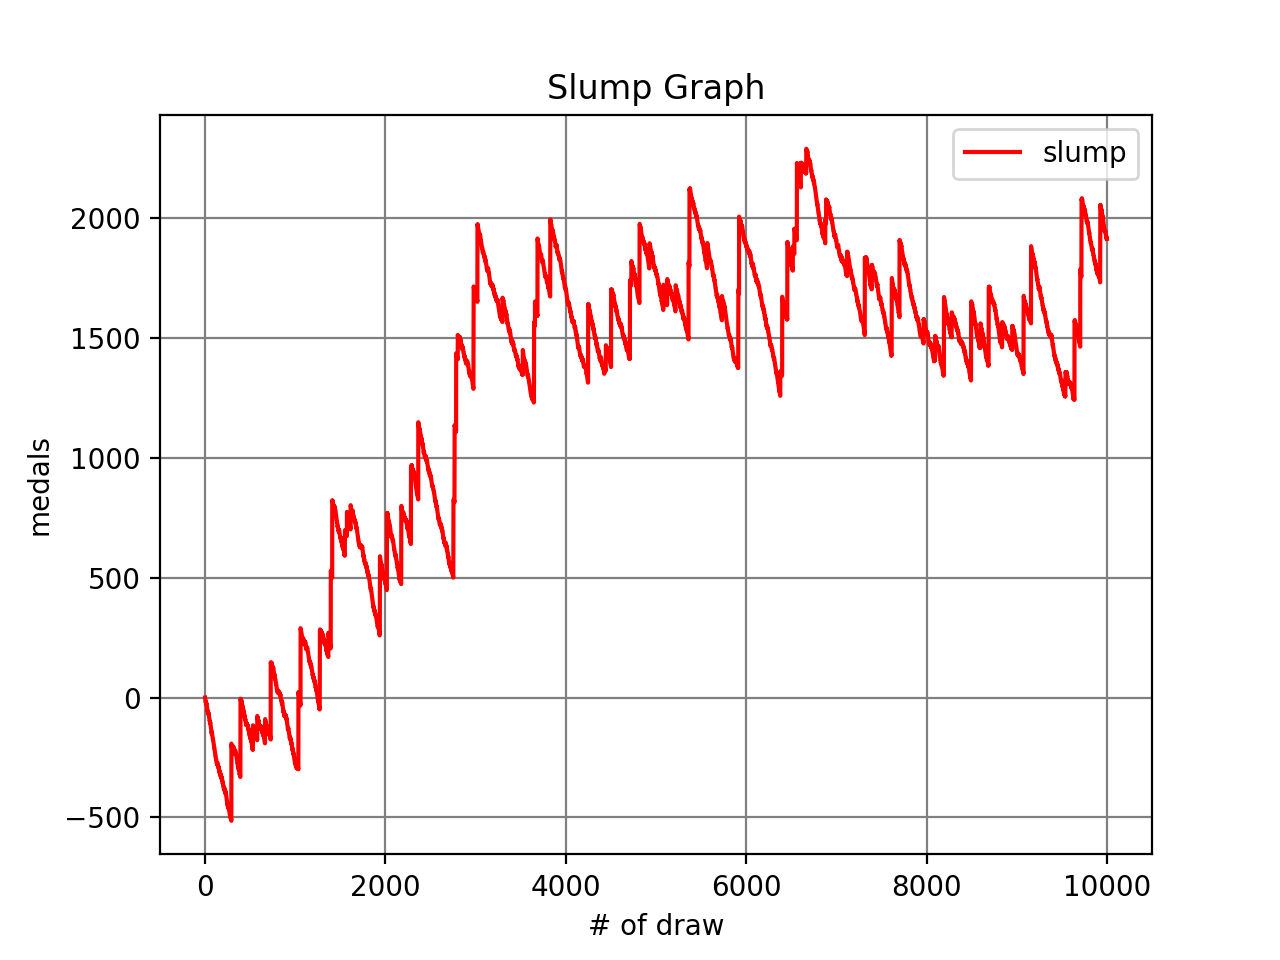
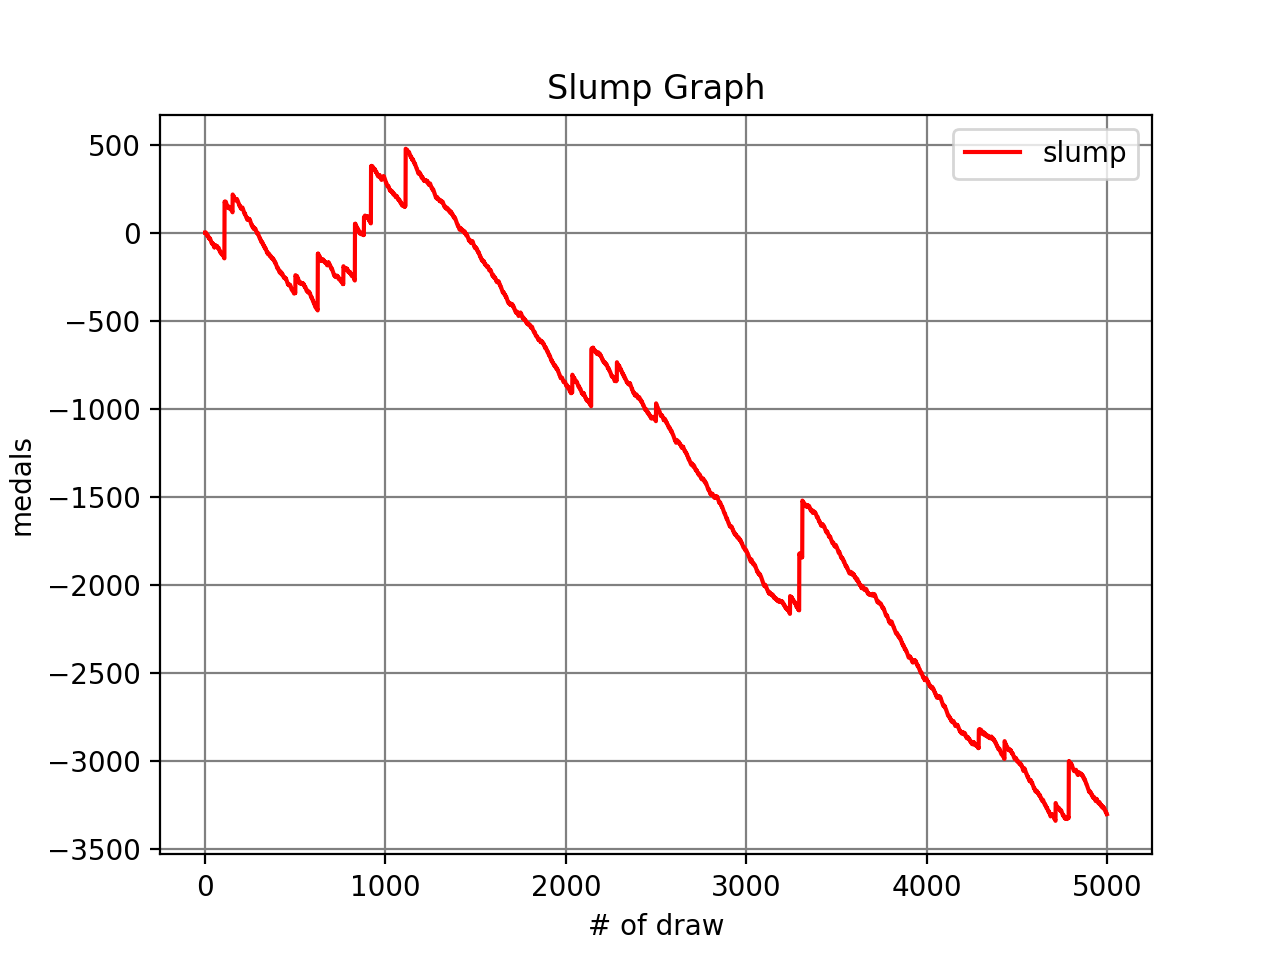
抽選を完全確率に変更

diff --git a/juggler.py b/juggler.py
@@ -7,54 +7,81 @@ import numpy as np
 import matplotlib.pyplot as plt
 
 class Juggler(object):
-    def __init__(self, name="ダミー", setting=6, big=268., reg=268., grape=6., cherry=33., replay=7., pierrot=1092., bell=1092.):
-        self.name = name #機種名
-        self.setting = setting #設定(1-6)
-        self.rotation = 0 #ハマり回転数
-        self.rotation_total = 0
-        self.medal = 0 #差枚数
-        self.log = [] #当たり履歴
-        self.slump = [] #スランプグラフ
-        self.counter = np.zeros(7) #役カウンタ[BIG, REG, ブドウ, チェリー, リプレイ, ベル, ピエロ]
+    def __init__(self, name="ダミー", setting=6, big_single=172, big_cherry=72, reg_single=172, reg_cherry=72, grape=10600, cherry_single=1840, replay=8978, bell=60, pierrot=60):
 
-        self.big = big #BIG確率(分母)
-        self.reg = reg #REG確率(分母)
-        self.grape = grape #ブドウ確率(分母)
-        self.cherry = cherry #チェリー確率(分母)
-        self.replay = replay #リプレイ確率(分母)
-        self.pierrot = pierrot #ピエロ確率(分母)
-        self.bell = bell #ベル確率(分母)
-        
-        self.weight_big = np.array([1.0-1./self.big, 1./self.big])
-        self.weight_reg = np.array([1.0-1./self.reg, 1./self.reg])
-        self.weight_grape = np.array([1.0-1./self.grape, 1./self.grape])
-        self.weight_cherry = np.array([1.0-1./self.cherry, 1./self.cherry])
-        self.weight_replay = np.array([1.0-1./self.replay, 1./self.replay])
-        self.weight_pierrot = np.array([1.0-1./self.pierrot, 1./self.pierrot])
-        self.weight_bell = np.array([1.0-1./self.bell, 1./self.bell])
+        self.name = name            #機種名
+        self.setting = setting      #設定(1-6)
+        self.rotation = 0           #ハマり回転数
+        self.rotation_total = 0     #総回転数
+        self.medal = 0              #差枚数
+        self.log = []               #当たり履歴
+        self.slump = []             #スランプグラフ
+        self.counter = np.zeros(7)  #役カウンタ[BIG, REG, ブドウ, チェリー, リプレイ, ベル, ピエロ]
+        self.flag_big = False #BIGフラグ
+        self.flag_reg = False #REGフラグ
 
-        self.flag_big = False #当たりフラグ
-        self.flag_reg = False
+        self.big_single = big_single        #単独BIG確率(x/65536)
+        self.big_cherry = big_cherry        #チェリーBIG確率
+        self.reg_single = reg_single        #単独REG確率
+        self.reg_cherry = reg_cherry        #チェリーREG確率
+        self.grape = grape                  #ブドウ確率
+        self.cherry_single = cherry_single  #チェリーのみ確率
+        self.replay = replay                #リプレイ確率
+        self.pierrot = pierrot              #ピエロ確率
+        self.bell = bell                    #ベル確率
+
+        self.big_total = big_single+big_cherry                  #BIG確率
+        self.reg_total = reg_single+reg_cherry                  #REG確率
+        self.bonus_total = self.big_total+self.reg_total        #ボーナス合算
+        self.cherry_total = big_cherry+reg_cherry+cherry_single #チェリー合算
+
+        # 抽選テーブルを作成
+        self.th_big_single = big_single
+        self.th_big_cherry = self.th_big_single + big_cherry
+        self.th_reg_single = self.th_big_cherry + reg_single
+        self.th_reg_cherry = self.th_reg_single + reg_cherry
+        self.th_grape = self.th_reg_cherry + grape
+        self.th_cherry_single = self.th_grape + cherry_single
+        self.th_replay = self.th_cherry_single + replay
+        self.th_bell = self.th_replay + bell
+        self.th_pierrot = self.th_bell + pierrot
 
     #スペック表示
     def show_spec(self):
         print(self.name)
         print("設定:%d"%self.setting)
-        print("BIG確率:1/%g"%self.big)
-        print("REG確率:1/%g"%self.reg)
-        print("ボーナス合算:1/%g"%((self.reg*self.big)/(self.reg+self.big-1.)))
-        print("ブドウ確率:1/%g"%self.grape)
-        print("チェリー確率:1/%g"%self.cherry)
+        print("BIG確率:1/%g"%(65536./self.big_total))
+        print("REG確率:1/%g"%(65536./self.reg_total))
+        print("ボーナス合算:1/%g"%(65536./self.bonus_total))
+        print("ブドウ確率:1/%g"%(65536./self.grape))
+        print("チェリー確率:1/%g"%(65536./self.cherry_total))
+        print("リプレイ確率:1/%g"%(65536./self.replay))
+        print("ピエロ確率:1/%g"%(65536./self.pierrot))
+        print("ベル確率:1/%g"%(65536./self.bell))
 
     #現在の回転数, 当たり回数などを表示
     def show_status(self):
+        
+        if self.counter[0]==0:
+            p_big = "BIG確率:0/%d, "%self.rotation_total
+        else:
+            p_big = "BIG確率:1/%g, "%(float(self.rotation_total)/self.counter[0])
+        if self.counter[1]==0:
+            p_reg = "REG確率:0/%d, "%self.rotation_total
+        else:
+            p_reg = "REG確率:1/%g, "%(float(self.rotation_total)/self.counter[1])
+        if (self.counter[0]+self.counter[1])==0:
+            p_total = "ボーナス合算確率:0/%d"%self.rotation_total
+        else:
+            p_total = "ボーナス合算確率:1/%g"%(float(self.rotation_total)/(self.counter[0]+self.counter[1]))
         print("現在の回転数:%d, 差枚数:%d, 総回転数:%d, BIG:%d回, REG:%d回"%(self.rotation, self.medal, self.rotation_total, self.counter[0], self.counter[1]))
-        n_big = float(self.rotation_total)/(self.counter[0]+1e-07)
-        n_reg = float(self.rotation_total)/(self.counter[1]+1e-07)
-        n_both = float(self.rotation_total)/(self.counter[0]+self.counter[1]+1e-07)
-        print("BIG確率:1/%g, REG確率:1/%g, ボーナス合算:1/%g"%(n_big, n_reg, n_both))
+        print(p_big+p_reg+p_total)
+        #n_big = float(self.rotation_total)/(self.counter[0]+1e-07)
+        #n_reg = float(self.rotation_total)/(self.counter[1]+1e-07)
+        #n_both = float(self.rotation_total)/(self.counter[0]+self.counter[1]+1e-07)
+        #print("BIG確率:1/%g, REG確率:1/%g, ボーナス合算:1/%g"%(n_big, n_reg, n_both))
 
-    #小役カウンタを表示
+    #小役カウンタを表示(要修正)
     def show_counter(self):
         #print("ブドウ:%d, チェリー:%d, リプレイ:%d, ベル:%d, ピエロ:%d"%(self.counter[2], self.counter[3], self.counter[4], self.counter[5], self.counter[6]))
         n_koyaku = float(self.rotation_total)/(self.counter[2:]+1e-07)
@@ -78,12 +105,12 @@ class Juggler(object):
 
     #抽選
     def draw(self):
-        #MAXBET
+        #MAXBET時の処理
         self.medal -= 3
         self.rotation += 1
         self.rotation_total += 1
         #フラグが成立している場合は払い出し優先(生入りは考慮しない)
-        #それ以外はBIG>REG>ベル>ピエロ>チェリー>リプレイ>ブドウの順に当たり判定を行う
+        #それ以外は[単独BIG|チェリーBIG|単独REG|チェリーREG|ブドウ|チェリー(ボナなし)|リプレイ|ピエロ|ベル|ハズレ]のテーブルで抽選を行う
         if ((self.flag_big==True) or (self.flag_reg==True)):
             self.rotation = 0
             if self.flag_big==True:
@@ -97,67 +124,105 @@ class Juggler(object):
                 self.flag_reg = False
                 self.counter[1] += 1
         else:
-            if np.random.choice([False, True], p=self.weight_big)==True:
+            table = np.random.randint(65536)
+            if 0<=table<self.th_big_single:
+                # 単独BIG
                 self.flag_big = True
-            elif np.random.choice([False, True], p=self.weight_reg)==True:
-                self.flag_reg = True
-
-            if np.random.choice([False, True], p=self.weight_bell)==True:
-                result = "ベル"
-                self.medal += 14
-                self.counter[6] += 1
-            elif np.random.choice([False, True], p=self.weight_pierrot)==True:
-                result = "ピエロ"
-                self.medal += 10
-                self.counter[5] += 1
-            elif np.random.choice([False, True], p=self.weight_cherry)==True:
-                result = "チェリー"
+                result = "ハズレ(ペカッ)"
+            elif self.th_big_single<=table<self.th_big_cherry:
+                # チェリーBIG
+                self.flag_big = True
                 self.medal += 2
                 self.counter[3] += 1
-            elif np.random.choice([False, True], p=self.weight_replay)==True:
-                result = "リプレイ"
-                self.medal += 3
-                self.counter[4] += 1
-            elif np.random.choice([False, True], p=self.weight_grape)==True:
-                result = "ブドウ"
+                result = "チェリー(ペカッ)"
+            elif self.th_big_cherry<=table<self.th_reg_single:
+                # 単独REG
+                self.flag_reg = True
+                result = "ハズレ(ペカッ)"
+            elif self.th_reg_single<=table<self.th_reg_cherry:
+                # チェリーREG
+                self.flag_reg = True
+                self.medal += 2
+                self.counter[3] += 1
+                result = "チェリー(ペカッ)"
+            elif self.th_reg_cherry<=table<self.th_grape:
+                # ブドウ
                 self.medal += 7
                 self.counter[2] += 1
-            else:
+                result = "ブドウ"
+            elif self.th_grape<=table<self.th_cherry_single:
+                # チェリー(ボーナスなし)
+                self.medal += 2
+                self.counter[3] += 1
+                result = "チェリー"
+            elif self.th_cherry_single<=table<self.th_replay:
+                # リプレイ
+                self.medal += 3
+                self.counter[4] += 1
+                result = "リプレイ"
+            elif self.th_replay<=table<self.th_bell:
+                # ベル
+                self.medal += 14
+                self.counter[6] += 1
+                result = "ベル"
+            elif self.th_bell<=table<self.th_pierrot:
+                # ピエロ
+                self.medal += 10
+                self.counter[5] += 1
+                result = "ピエロ"
+            elif self.th_pierrot<=table:
+                # ハズレ
                 result = "ハズレ"
 
-        if ((self.flag_big==True) or (self.flag_reg==True)):
-            result = result + "(ペカッ)"
         self.log.append(result)
         self.slump.append(self.medal)
         
         return result
 
-    
-
-
 class ImJugglerEX(Juggler):
 
     def __init__(self, settei=1):
 
-        self.big_prob = np.array([287.4, 282.5, 282.5, 273.1, 273.1, 268.6])#スペック表示しやすいように分母で入力
-        self.reg_prob = np.array([455.1, 442.8, 348.6, 321.3, 268.6, 268.6])
-        self.grape_prob = np.array([6.49, 6.49, 6.49, 6.49, 6.49, 6.18])
-        self.cherry_prob = np.array([33.6, 33.6, 33.4, 33.2, 33.0, 33.0])
-        self.big = self.big_prob[settei-1]
-        self.reg = self.reg_prob[settei-1]
+        #self.big_prob = np.array([287.4, 282.5, 282.5, 273.1, 273.1, 268.6])#スペック表示しやすいように分母で入力
+        #self.reg_prob = np.array([455.1, 442.8, 348.6, 321.3, 268.6, 268.6])
+        #self.grape_prob = np.array([6.49, 6.49, 6.49, 6.49, 6.49, 6.18])
+        #self.cherry_prob = np.array([33.6, 33.6, 33.4, 33.2, 33.0, 33.0])
+        #self.big = self.big_prob[settei-1]
+        #self.reg = self.reg_prob[settei-1]
+        #self.grape = self.grape_prob[settei-1]
+        #self.cherry = self.cherry_prob[settei-1]
+        #self.replay = 7.3
+        #self.pierrot = 1092.3
+        #self.bell = 1092.3
+        
+        #設定差のある確率
+        self.big_single_prob = np.array([160, 164, 164, 168, 168, 172])           #単独BIG確率,x/65536のxで表現
+        self.big_cherry_prob = np.array([68, 68, 68, 72, 72, 72])                 #チェリーBIG確率
+        self.reg_single_prob = np.array([100, 104, 132, 144, 172, 172])           #単独REG確率
+        self.reg_cherry_prob = np.array([44, 44, 56, 60, 72, 72])                 #チェリーREG確率
+        self.grape_prob = np.array([10100, 10100, 10100, 10100, 10100, 10600])    #ブドウ確率
+
+        self.big_single = self.big_single_prob[settei-1]
+        self.big_cherry = self.big_cherry_prob[settei-1]
+        self.reg_single = self.reg_single_prob[settei-1]
+        self.reg_cherry = self.reg_cherry_prob[settei-1]
         self.grape = self.grape_prob[settei-1]
-        self.cherry = self.cherry_prob[settei-1]
-        self.replay = 7.3
-        self.pierrot = 1092.3
-        self.bell = 1092.3
+
+        #設定差がない確率
+        self.cherry_single = 1840   #ボーナスなしチェリー
+        self.replay = 8978          #リプレイ
+        self.bell = 60              #ベル
+        self.pierrot = 60           #ピエロ
+
         self.setting = settei
-        super(ImJugglerEX, self).__init__("アイムジャグラーEXAE", self.setting, self.big, self.reg, self.grape, self.cherry, self.replay, self.pierrot, self.bell)
+
+        super(ImJugglerEX, self).__init__("アイムジャグラーEXAE", self.setting, self.big_single, self.big_cherry, self.reg_single, self.reg_cherry, self.grape, self.cherry_single, self.replay, self.bell, self.pierrot)
 
 
 # 使用例
 if __name__ == '__main__':
     
-    myjag = ImJugglerEX(6)
+    myjag = ImJugglerEX(1)
     print("--------------------")
     myjag.show_spec()
     print("--------------------")
@@ -188,7 +253,7 @@ if __name__ == '__main__':
     """
 
     #シミュレーションする
-    for i in range(10000):
+    for i in range(5000):
         myjag.draw()
     myjag.show_status()
     myjag.show_counter()

diff --git a/README.md b/README.md
@@ -10,9 +10,6 @@ Numpy 1.12.1
 Matplotlib 2.0.2
 
 ## 問題点(気が向いたら修正)
-- juggler.draw()
-    - そもそも完全確率になっていない
-    - ボーナスとチェリー以外の小役が重複している
 - juggler.show_graph()
     - なんかもうちょい情報を足した画像にしたい
     - 大当たり履歴を表示したい
